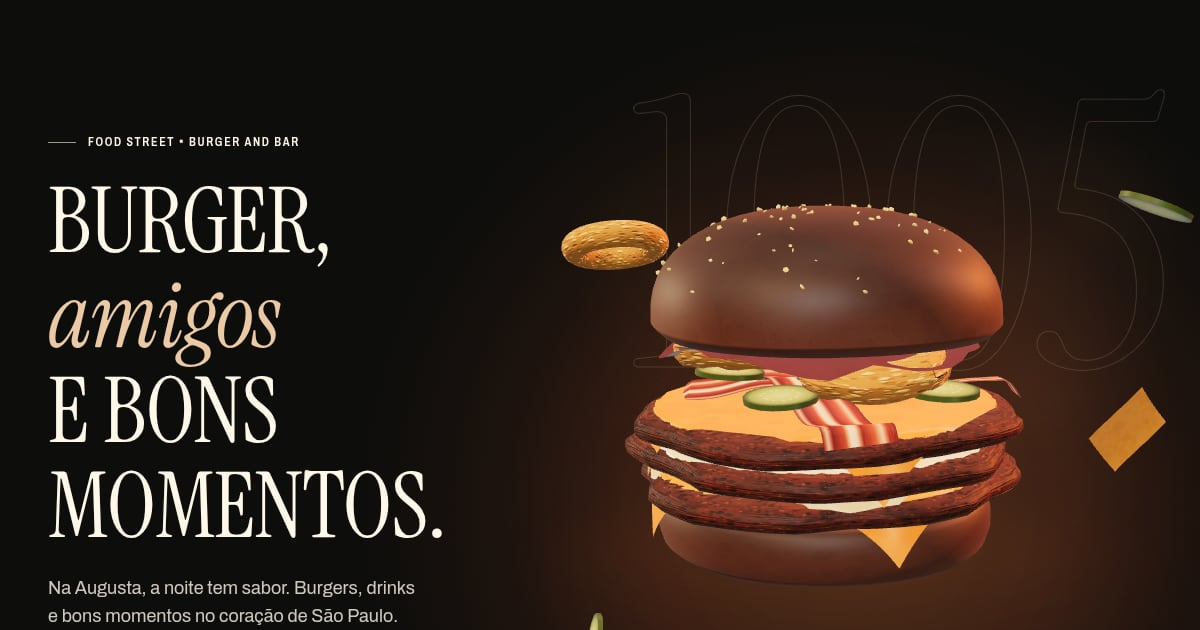
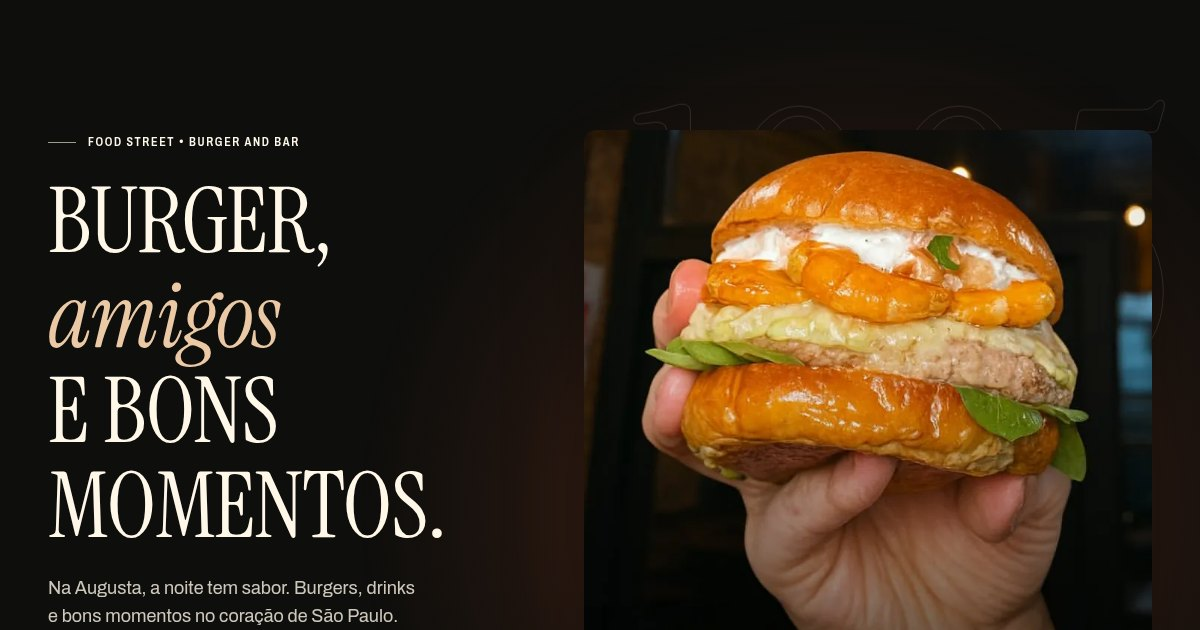
Troca as ilustrações 3D dos burgers por fotos reais
- Hero mostra a foto do Poseidon Burger (HERO_PHOTO em src/config/scene.ts);
  com a foto, a cena 3D e o Three.js não são carregados
- Novo item Poseidon Burger (preço a confirmar) com foto
- Linha Street ganha as fotos do cardápio em PDF e passa a ser o destaque
- Itens com ilustração 3D deixam de exibi-la; galeria usa foto no lugar do render
- Cards de destaque mostram "Com batata" e "Valor a confirmar"
- og.jpg refeito com o novo hero; README atualizado

Claude-Session: https://claude.ai/code/session_01CVbficzyzUNm7Nn45MXnVD

diff --git a/src/data/menu.ts b/src/data/menu.ts
@@ -186,8 +186,6 @@ export const menu: MenuItem[] = [
     comboPrice: 69.9,
     description:
       'Burger de 180g, mussarela, bacon, onion rings e barbecue de cerveja no pão preto.',
-    featured: true,
-    render: '/images/burgers/renders/augustas',
   },
   {
     id: 'station',
@@ -217,8 +215,17 @@ export const menu: MenuItem[] = [
     comboPrice: 69.9,
     description:
       'Burger de 180g, cheddar, cebola roxa picada, ketchup, bacon, picles e maionese defumada no pão preto.',
+  },
+  {
+    id: 'poseidon',
+    name: 'Poseidon Burger',
+    category: 'burgers',
+    description: 'Burger de porco, camarão, vinagrete de maxixe e rúcula.',
+    image: '/images/burgers/poseidon.webp',
     featured: true,
-    render: '/images/burgers/renders/brooklyn-pickles',
+    needsConfirmation: true,
+    confirmationNote:
+      'Item do post "Raio-X do burger" (Instagram), sem preço no material. Preencha `price` e `comboPrice`.',
   },
 
   /* ───────────── TUNADOS ───────────── */
@@ -230,8 +237,6 @@ export const menu: MenuItem[] = [
     comboPrice: 85,
     description:
       'Três smashes de 90g, cheddar, mussarela, bacon, picles, onion rings e barbecue de cerveja no pão preto.',
-    featured: true,
-    render: '/images/burgers/renders/the-king-brooklyn',
   },
   {
     id: 'food-street-2-0',
@@ -241,8 +246,6 @@ export const menu: MenuItem[] = [
     comboPrice: 85,
     description:
       '2 burgers de 180g, cheddar, mussarela, tomate, picles e maionese de alho no pão brioche.',
-    featured: true,
-    render: '/images/burgers/renders/food-street-2-0',
   },
   {
     id: 'crazy-cheddar',
@@ -259,8 +262,6 @@ export const menu: MenuItem[] = [
     comboPrice: 85,
     description:
       'Três smashes de 90g, mussarela, bacon, cebola roxa e maionese defumada no pão brioche.',
-    featured: true,
-    render: '/images/burgers/renders/the-boss',
   },
 
   /* ───────────── STREET ───────────── */
@@ -273,8 +274,6 @@ export const menu: MenuItem[] = [
     comboPrice: 69.9,
     description:
       'Sobrecoxa de frango empanada, cheddar, tomate, barbecue e maionese de alho no pão brioche.',
-    featured: true,
-    render: '/images/burgers/renders/street-chicken',
   },
 
   /*
@@ -291,6 +290,8 @@ export const menu: MenuItem[] = [
     price: 18,
     withFriesPrice: 27,
     description: 'Pão brioche, smash 90g, mussarela e maionese de alho.',
+    image: '/images/burgers/street-cheese-burger.webp',
+    featured: true,
     needsConfirmation: true,
     confirmationNote: 'Preço de outra versão do cardápio. Confirmar se está vigente.',
   },
@@ -302,6 +303,8 @@ export const menu: MenuItem[] = [
     price: 18,
     withFriesPrice: 27,
     description: 'Pão preto, smash 90g, cheddar e barbecue.',
+    image: '/images/burgers/street-brooklyn-burger.webp',
+    featured: true,
     needsConfirmation: true,
     confirmationNote: 'Preço de outra versão do cardápio. Confirmar se está vigente.',
   },
@@ -313,6 +316,8 @@ export const menu: MenuItem[] = [
     price: 23,
     withFriesPrice: 32,
     description: 'Pão preto, dois smashes de 90g e maionese de manjericão.',
+    image: '/images/burgers/street-pc-burger.webp',
+    featured: true,
     needsConfirmation: true,
     confirmationNote: 'Preço de outra versão do cardápio. Confirmar se está vigente.',
   },
@@ -324,6 +329,8 @@ export const menu: MenuItem[] = [
     price: 23,
     withFriesPrice: 32,
     description: 'Pão brioche, smash 90g, mussarela, bacon e maionese defumada.',
+    image: '/images/burgers/street-bacon.webp',
+    featured: true,
     needsConfirmation: true,
     confirmationNote: 'Preço de outra versão do cardápio. Confirmar se está vigente.',
   },
@@ -335,6 +342,8 @@ export const menu: MenuItem[] = [
     price: 16,
     withFriesPrice: 25,
     description: 'Pão brioche, duas salsichas, ketchup, maionese, mostarda e alface.',
+    image: '/images/burgers/street-dog.webp',
+    featured: true,
     needsConfirmation: true,
     confirmationNote: 'Preço de outra versão do cardápio. Confirmar se está vigente.',
   },
@@ -382,16 +391,19 @@ export const DESSERT_PRICES_TO_ASSIGN = [16, 24, 35] as const;
 
 /** Ordem dos destaques (seção "Escolha o seu favorito" e aba Destaques) */
 export const featuredOrder = [
-  'the-king-brooklyn',
-  'food-street-2-0',
-  'the-boss',
-  'street-chicken',
-  'augustas',
-  'brooklyn-pickles',
+  'poseidon',
+  'street-bacon',
+  'street-pc-burger',
+  'street-brooklyn-burger',
+  'street-cheese-burger',
+  'street-dog',
 ];
 
-/** Item exibido no card do hero */
-export const heroItemId = 'the-king-brooklyn';
+/**
+ * Item exibido no card do hero. Com o burger 3D (HERO_PHOTO vazio em
+ * src/config/scene.ts), use o mesmo burger de HERO_STACK_ID.
+ */
+export const heroItemId = 'poseidon';
 
 export function getItem(id: string): MenuItem | undefined {
   return menu.find((item) => item.id === id);

diff --git a/src/components/Hero/Hero.tsx b/src/components/Hero/Hero.tsx
@@ -1,6 +1,7 @@
 import { lazy, Suspense, useEffect, useMemo, useRef, useState, type CSSProperties } from 'react';
 import { getCategoryLabel, getItem, heroItemId } from '../../data/menu';
 import { business, links } from '../../data/business';
+import { HERO_PHOTO } from '../../config/scene';
 import { createPointerState } from '../../three/pointer';
 import { useFinePointer, useMediaQuery, useReducedMotion } from '../../hooks/useMediaQuery';
 import { useNow } from '../../hooks/useNow';
@@ -27,6 +28,15 @@ function HeroPoster() {
       alt="Ilustração 3D do The King Brooklyn"
       fetchPriority="high"
     />
+  );
+}
+
+/** Foto real no lugar do 3D (HERO_PHOTO em src/config/scene.ts) */
+function HeroPhoto({ alt }: { alt: string }) {
+  return (
+    <figure className="hero__photo">
+      <img src={HERO_PHOTO} alt={alt} fetchPriority="high" decoding="async" />
+    </figure>
   );
 }
 
@@ -64,7 +74,7 @@ export function Hero() {
   const cursorRef = useRef<HTMLDivElement>(null);
 
   useEffect(() => {
-    setUse3D(hasWebGL());
+    setUse3D(!HERO_PHOTO && hasWebGL());
   }, []);
 
   // Paralaxe 2.5D pelo mouse: fundo quase parado, número 1005 médio, burger e
@@ -215,10 +225,12 @@ export function Hero() {
           data-interactive={interactive || undefined}
           onPointerEnter={() => finePointer && interactive && setCursor(true)}
           onPointerLeave={() => setCursor(false)}
-          role="img"
-          aria-label={`Ilustração 3D do ${item.name}, montado camada por camada`}
+          role={HERO_PHOTO ? undefined : 'img'}
+          aria-label={HERO_PHOTO ? undefined : `Ilustração 3D do ${item.name}, montado camada por camada`}
         >
-          {use3D ? (
+          {HERO_PHOTO ? (
+            <HeroPhoto alt={item.name} />
+          ) : use3D ? (
             <Suspense fallback={null}>
               <Hero3D
                 pointer={pointer}
@@ -253,14 +265,16 @@ export function Hero() {
             {item.name}
           </h2>
           <p className="hero-card__desc">{item.description}</p>
-          <div className="hero-card__prices">
-            <Price value={item.price} className="hero-card__price" />
-            {item.comboPrice ? (
-              <span className="hero-card__combo">
-                Combo <Price value={item.comboPrice} />
-              </span>
-            ) : null}
-          </div>
+          {item.price !== undefined ? (
+            <div className="hero-card__prices">
+              <Price value={item.price} className="hero-card__price" />
+              {item.comboPrice ? (
+                <span className="hero-card__combo">
+                  Combo <Price value={item.comboPrice} />
+                </span>
+              ) : null}
+            </div>
+          ) : null}
           <a
             className="hero-card__link u-link"
             href="#cardapio"

diff --git a/src/components/FeaturedProducts/FeaturedProducts.tsx b/src/components/FeaturedProducts/FeaturedProducts.tsx
@@ -95,10 +95,19 @@ export function FeaturedProducts() {
                 </h3>
                 <p className="product-card__desc">{item.description}</p>
                 <div className="product-card__prices">
-                  <Price value={item.price} className="product-card__price" />
+                  {item.price !== undefined ? (
+                    <Price value={item.price} className="product-card__price" />
+                  ) : (
+                    <span className="product-card__price product-card__price--muted">Valor a confirmar</span>
+                  )}
                   {item.comboPrice ? (
                     <span className="combo-label">
                       Combo <Price value={item.comboPrice} />
+                    </span>
+                  ) : null}
+                  {item.withFriesPrice ? (
+                    <span className="combo-label">
+                      Com batata <Price value={item.withFriesPrice} />
                     </span>
                   ) : null}
                 </div>

diff --git a/src/data/gallery.ts b/src/data/gallery.ts
@@ -18,7 +18,7 @@ export type GalleryTile =
 
 export const gallery: GalleryTile[] = [
   { id: 'ambiente-1', kind: 'photo', category: 'Ambiente', alt: 'Salão da Food Street à noite', src: '', shape: 'tall' },
-  { id: 'render-king', kind: 'render', itemId: 'the-king-brooklyn', shape: 'square' },
+  { id: 'burger-poseidon', kind: 'photo', category: 'Burgers', alt: 'Poseidon Burger com batatas fritas', src: '/images/gallery/poseidon-batatas.webp', shape: 'square' },
   { id: 'drinks-1', kind: 'photo', category: 'Drinks', alt: 'Caipirinhas no balcão', src: '', shape: 'square' },
   { id: 'type-augusta', kind: 'type', lines: ['R. Augusta', '1005'], caption: 'Consolação, São Paulo', shape: 'wide' },
   { id: 'burgers-1', kind: 'photo', category: 'Burgers', alt: 'Burger saindo da chapa', src: '', shape: 'tall' },

diff --git a/src/components/Hero/Hero.css b/src/components/Hero/Hero.css
@@ -124,6 +124,22 @@
   padding: 6%;
 }
 
+/* foto real no lugar do 3D (HERO_PHOTO em src/config/scene.ts) */
+.hero__photo {
+  position: absolute;
+  inset: 4% var(--gutter) 9% 6%;
+  margin: 0;
+  overflow: hidden;
+  border-radius: var(--r-12);
+  box-shadow: 0 40px 80px -36px rgb(0 0 0 / 0.9);
+}
+
+.hero__photo img {
+  width: 100%;
+  height: 100%;
+  object-fit: cover;
+}
+
 .hero__hint {
   position: absolute;
   left: 8%;
@@ -417,6 +433,10 @@
     min-height: 0;
     height: min(104vw, 620px);
     margin-inline: calc(var(--gutter) * -1);
+  }
+
+  .hero__photo {
+    inset: 0 var(--gutter) 24px;
   }
 
   .hero-card {

diff --git a/src/config/scene.ts b/src/config/scene.ts
@@ -1,4 +1,10 @@
 /**
+ * Foto real exibida no hero, no lugar do burger 3D.
+ * Vazio = cena 3D abaixo (ajuste também `heroItemId` em src/data/menu.ts).
+ */
+export const HERO_PHOTO = '/images/hero/poseidon-burger.webp';
+
+/**
  * Configuração da cena 3D do hero.
  *
  * Para usar um modelo 3D real (fotogrametria ou modelado), exporte em .glb

diff --git a/src/components/FeaturedProducts/FeaturedProducts.css b/src/components/FeaturedProducts/FeaturedProducts.css
@@ -178,6 +178,14 @@
   font-size: var(--fs-21);
 }
 
+.product-card__price--muted {
+  font-weight: 500;
+  font-stretch: 80%;
+  font-size: var(--fs-14);
+  letter-spacing: 0.04em;
+  color: var(--ink-60);
+}
+
 .combo-label {
   font-stretch: 80%;
   font-weight: 600;

diff --git a/src/components/Menu/Menu.css b/src/components/Menu/Menu.css
@@ -248,6 +248,9 @@
 
 .menu-row__thumb img {
   object-fit: cover;
+}
+
+.menu-row__thumb.product-image--render img {
   transform: scale(1.35);
 }
 

diff --git a/README.md b/README.md
@@ -44,6 +44,7 @@ Todo o conteúdo fica em `src/data/`, separado do layout. Não é preciso mexer 
 | Cardápio, preços, combos            | `src/data/menu.ts`           |
 | Destaques (cards e aba Destaques)   | `src/data/menu.ts` → `featured` e `featuredOrder` |
 | Item do card do hero                | `src/data/menu.ts` → `heroItemId` |
+| Foto do hero                        | `src/config/scene.ts` → `HERO_PHOTO` |
 | Horários                            | `src/data/hours.ts`          |
 | Endereço, telefone, links do mapa   | `src/data/business.ts`       |
 | WhatsApp                            | `src/data/business.ts` → `WHATSAPP_NUMBER` |
@@ -118,11 +119,25 @@ public/images/
 Use WebP ou AVIF, com cerca de 1600px no lado maior. Publique **somente fotos
 autorizadas pela casa**.
 
+Fotos em uso hoje (enviadas pela casa):
+
+| Arquivo | Onde aparece |
+| ------- | ------------ |
+| `hero/poseidon-burger.webp` | Hero (post "Raio-X do burger", sem o texto) |
+| `burgers/poseidon.webp` | Card e cardápio do Poseidon Burger |
+| `gallery/poseidon-batatas.webp` | Galeria |
+| `burgers/street-*.webp` | Linha Street (recortes do cardápio em PDF) |
+
+As fotos da Linha Street foram recortadas de um print do celular e têm pouca
+resolução (cerca de 500px). Troque pelos arquivos originais quando houver.
+
 ### Ilustrações 3D dos burgers
 
-Os cards usam ilustrações geradas a partir das receitas de `src/data/stacks.ts`
-(camadas iguais aos ingredientes do cardápio). Elas sempre aparecem identificadas
-como **ilustração**, para não serem confundidas com fotos dos produtos.
+As ilustrações geradas a partir das receitas de `src/data/stacks.ts` **não aparecem
+mais no site**: foram trocadas pelas fotos reais. Itens sem foto mostram a inicial do
+nome. Para voltar a usar a ilustração em um item, preencha `render` nele, ex.:
+`render: '/images/burgers/renders/the-king-brooklyn'`. Ela aparece sempre identificada
+como **ilustração**, para não ser confundida com foto do produto.
 
 Para gerar de novo, depois de alterar uma receita:
 
@@ -135,9 +150,21 @@ O script usa o Chromium do Playwright (`/opt/pw-browsers/chromium` por padrão;
 defina `CHROMIUM_PATH` se estiver em outro lugar) e grava
 `public/images/burgers/renders/<id>-600.webp` e `-1000.webp`.
 
+### Foto ou 3D no hero
+
+Hoje o hero mostra uma foto real, definida em `src/config/scene.ts`:
+
+```ts
+export const HERO_PHOTO = '/images/hero/poseidon-burger.webp';
+```
+
+Com a foto, o Three.js nem é carregado. Para voltar ao burger 3D, deixe
+`HERO_PHOTO = ''` e troque `heroItemId` em `src/data/menu.ts` para o burger da
+receita (`the-king-brooklyn`).
+
 ### Modelo 3D real no hero
 
-O burger do hero é procedural (montado pelo código). Para usar um modelo real
+O burger 3D do hero é procedural (montado pelo código). Para usar um modelo real
 (fotogrametria ou modelagem), exporte em `.glb`, de preferência com compressão Draco,
 coloque em `public/models/` e informe em `src/config/scene.ts`:
 
@@ -158,6 +185,7 @@ própria. Esses itens estão marcados com `needsConfirmation: true` em `src/data
 | ---- | ----------- |
 | **Station** | Preço do combo (possível inconsistência no material). O site mostra "Combo a confirmar". |
 | **Linha Street** (Cheese Burger R$ 18, Brooklyn Burger, PC Burger, Street Bacon, Street Dog) | Valores de outra parte do material. Podem ser de outro período. Ficam separados da tabela principal, com aviso. |
+| **Poseidon Burger** | Preço e combo. Veio do post "Raio-X do burger" no Instagram, sem valores. O site mostra "Valor a confirmar". |
 | **Sobremesas** (Pudim, Vaka-Loka, Bolo de chocolate) | Foram informados R$ 16, R$ 24 e R$ 35 sem dizer qual é de qual. Os preços não aparecem no site. Os valores estão em `DESSERT_PRICES_TO_ASSIGN`. |
 
 Também ficaram de fora até confirmação: WhatsApp, redes sociais, delivery, reservas,
@@ -188,7 +216,8 @@ scripts/
 
 ## Desempenho, acessibilidade e SEO
 
-- O Three.js fica num pedaço separado, carregado depois da primeira pintura. A cena
+- O Three.js fica num pedaço separado, carregado depois da primeira pintura (e só
+  quando o hero está no modo 3D). A cena
   pausa fora da tela, limita o DPR a 1,5 e baixa para 1 se o FPS cair. Em aparelhos
   modestos usa menos partículas, sem sombras nem vapor.
 - Sem WebGL, o hero mostra a ilustração estática. Com `prefers-reduced-motion`, não há
